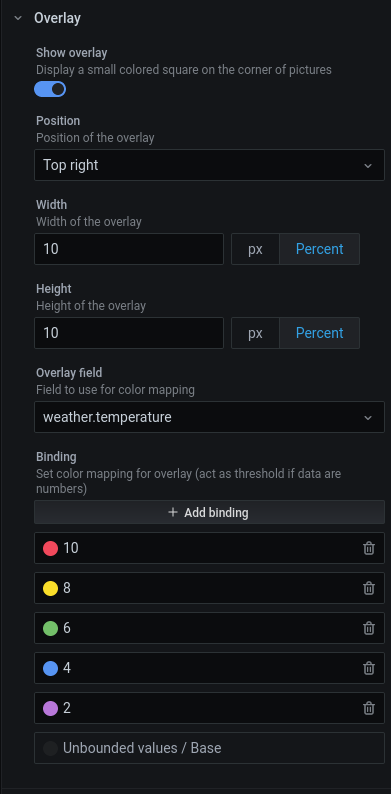
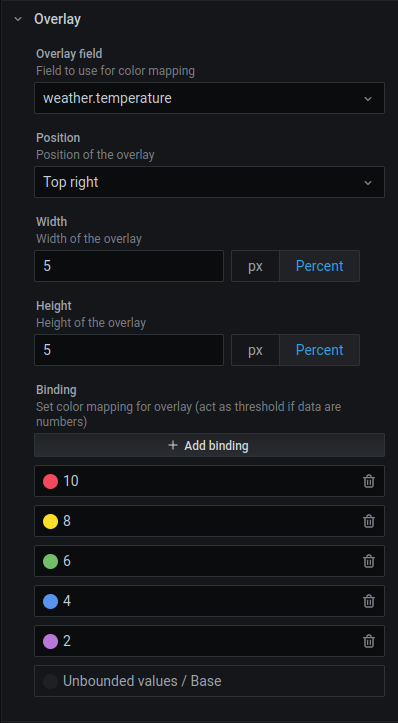
Remove overlay switch from config
When a field is selected other options are displayed

diff --git a/src/module.tsx b/src/module.tsx
@@ -18,8 +18,12 @@ function listFields(context: FieldOverrideContext, first?: any) {
   return options;
 }
 
-function listFieldsNew(context: FieldOverrideContext, includeTime: boolean) {
+function listFieldsNew(context: FieldOverrideContext, includeTime: boolean, first?: any) {
   const options = [] as any;
+
+  if (first !== undefined) {
+    options.push(first);
+  }
 
   if (context && context.data) {
     for (const frame of context.data) {
@@ -152,11 +156,18 @@ export const plugin = new PanelPlugin<DynamicImageOptions>(DynamicImagePanel).se
       showIf: (currentConfig) => currentConfig.tooltip && currentConfig.tooltip_include_date,
       category: ['Image tooltip options'],
     })
-    .addBooleanSwitch({
-      path: 'show_overlay',
-      name: 'Show overlay',
-      description: 'Display a small colored square on the corner of pictures',
-      defaultValue: false,
+    .addSelect({
+      path: 'overlay.field',
+      name: 'Overlay field',
+      description: 'Field to use for color mapping',
+      defaultValue: '',
+      settings: {
+        allowCustomValue: false,
+        options: [],
+        getOptions: async (context: FieldOverrideContext) => {
+          return Promise.resolve(listFieldsNew(context, false, { value: '', label: 'No overlay' }));
+        },
+      },
       category: ['Overlay'],
     })
     .addSelect({
@@ -173,7 +184,7 @@ export const plugin = new PanelPlugin<DynamicImageOptions>(DynamicImagePanel).se
           { value: Position.BOTTOM_RIGHT, label: Position.BOTTOM_RIGHT },
         ],
       },
-      showIf: (currentConfig) => currentConfig.show_overlay,
+      showIf: (currentConfig) => currentConfig.overlay.field !== '',
       category: ['Overlay'],
     })
     .addCustomEditor({
@@ -186,7 +197,7 @@ export const plugin = new PanelPlugin<DynamicImageOptions>(DynamicImagePanel).se
         size: 5,
         unit: '%',
       },
-      showIf: (currentConfig) => currentConfig.show_overlay,
+      showIf: (currentConfig) => currentConfig.overlay.field !== '',
       category: ['Overlay'],
     })
     .addCustomEditor({
@@ -199,21 +210,7 @@ export const plugin = new PanelPlugin<DynamicImageOptions>(DynamicImagePanel).se
         size: 5,
         unit: '%',
       },
-      showIf: (currentConfig) => currentConfig.show_overlay,
-      category: ['Overlay'],
-    })
-    .addSelect({
-      path: 'overlay.field',
-      name: 'Overlay field',
-      description: 'Field to use for color mapping',
-      settings: {
-        allowCustomValue: false,
-        options: [],
-        getOptions: async (context: FieldOverrideContext) => {
-          return Promise.resolve(listFieldsNew(context, false));
-        },
-      },
-      showIf: (currentConfig) => currentConfig.show_overlay,
+      showIf: (currentConfig) => currentConfig.overlay.field !== '',
       category: ['Overlay'],
     })
     .addCustomEditor({
@@ -227,8 +224,7 @@ export const plugin = new PanelPlugin<DynamicImageOptions>(DynamicImagePanel).se
         has_text: true,
       },
       editor: BindingEditor,
-      showIf: (currentConfig) =>
-        currentConfig.show_overlay && currentConfig.overlay !== undefined && currentConfig.overlay.field !== undefined,
+      showIf: (currentConfig) => currentConfig.overlay.field !== '' && currentConfig.overlay.field !== undefined,
       category: ['Overlay'],
     });
 });

diff --git a/src/DynamicImagePanel.tsx b/src/DynamicImagePanel.tsx
@@ -29,8 +29,6 @@ interface ImageProps {
   height: number;
   /** Handle 'singleFill' use 100% instead of height and width **/
   use_max: boolean;
-  /** Show overlay **/
-  show_overlay: boolean;
   /** Position of the overlay **/
   overlay_position: Position;
   /** Width of the overlay **/
@@ -96,7 +94,6 @@ export class Image extends PureComponent<ImageProps> {
       width,
       height,
       use_max,
-      show_overlay,
       overlay_width,
       overlay_height,
       overlay_position,
@@ -128,14 +125,14 @@ export class Image extends PureComponent<ImageProps> {
     // Handles overlay...
     let overlay_color: string | undefined = undefined;
     let bindings_contains_string = true;
-    if (show_overlay) {
+    if (overlay_value !== undefined) {
       overlay_color = overlay_bindings.unbounded;
       bindings_contains_string = overlay_bindings.has_text;
 
       // Find binding colors...
-      if (!bindings_contains_string && overlay_values_are_number && overlay_value !== undefined) {
+      if (!bindings_contains_string && overlay_values_are_number) {
         overlay_color = this.findBindingColorFromNumber(overlay_value as number);
-      } else if (overlay_value !== undefined) {
+      } else {
         overlay_color = this.findBindingColorFromString(overlay_value.toString());
       }
     }
@@ -153,7 +150,7 @@ export class Image extends PureComponent<ImageProps> {
             src={url}
             alt={alt}
           />
-          {show_overlay && (
+          {overlay_value !== undefined && (
             <div
               className={cl + ' ' + va}
               style={{
@@ -179,7 +176,7 @@ export class Image extends PureComponent<ImageProps> {
           title={tooltip}
           alt={alt}
         />
-        {show_overlay && (
+        {overlay_value !== undefined && (
           <div
             className={cl + ' ' + va}
             style={{
@@ -286,7 +283,7 @@ export class DynamicImagePanel extends PureComponent<Props> {
     // Find overlay field (if overlay is enable)
     let overlay_field_index = -2;
     let data_are_numbers = false;
-    if (options.show_overlay && options.overlay !== undefined && options.overlay.field !== undefined) {
+    if (options.overlay.field !== '') {
       overlay_field_index = this.getFieldIndex(options.overlay.field, data.series[0].fields, data.series[0]);
       if (overlay_field_index === -1) {
         console.error("Missing field '" + options.overlay.field + "' for overlay");
@@ -300,7 +297,7 @@ export class DynamicImagePanel extends PureComponent<Props> {
     for (let i = 0; i < max; i++) {
       let t = '';
       let overlay_value = undefined;
-      if (options.show_overlay && options.overlay !== undefined && options.overlay.field !== undefined) {
+      if (options.overlay.field !== '') {
         overlay_value = data.series[0].fields[overlay_field_index].values.get(i);
       }
       if (options.tooltip) {
@@ -356,7 +353,6 @@ export class DynamicImagePanel extends PureComponent<Props> {
               height={h}
               use_max={options.singleFill && values.length === 1}
               tooltip={value.tooltip}
-              show_overlay={options.show_overlay}
               overlay_position={options.overlay.position}
               overlay_width={options.overlay.width}
               overlay_height={options.overlay.height}

diff --git a/src/types.ts b/src/types.ts
@@ -44,6 +44,6 @@ export interface DynamicImageOptions {
   tooltip_field: string;
   tooltip_include_date: boolean;
   tooltip_date_elapsed: boolean;
-  show_overlay: boolean;
   overlay: OverlayOptions;
+  underline: string;
 }

diff --git a/README.md b/README.md
@@ -59,11 +59,11 @@ Note : when leave an input field, values are sorted and empty input are removed.
 
 Options for binding :
 
-- Show overlay : enable or disable overlay.
+- Overlay field : select the data field to use for binding (time fields are removed). If no field is selected, overlay
+  will not be shown.
 - Position : select the position of the overlay.
 - Width : allow to select the width of the overlay (in pixel or percent of the image size).
 - Height : allow to select the height of the overlay (in pixel or percent of the image size).
-- Overlay field : select the data field to use for binding (time fields are removed).
 - Binding : allow to choose the color for each values. Allow also to choose color for unmapped values.
 
 # Screenshot
